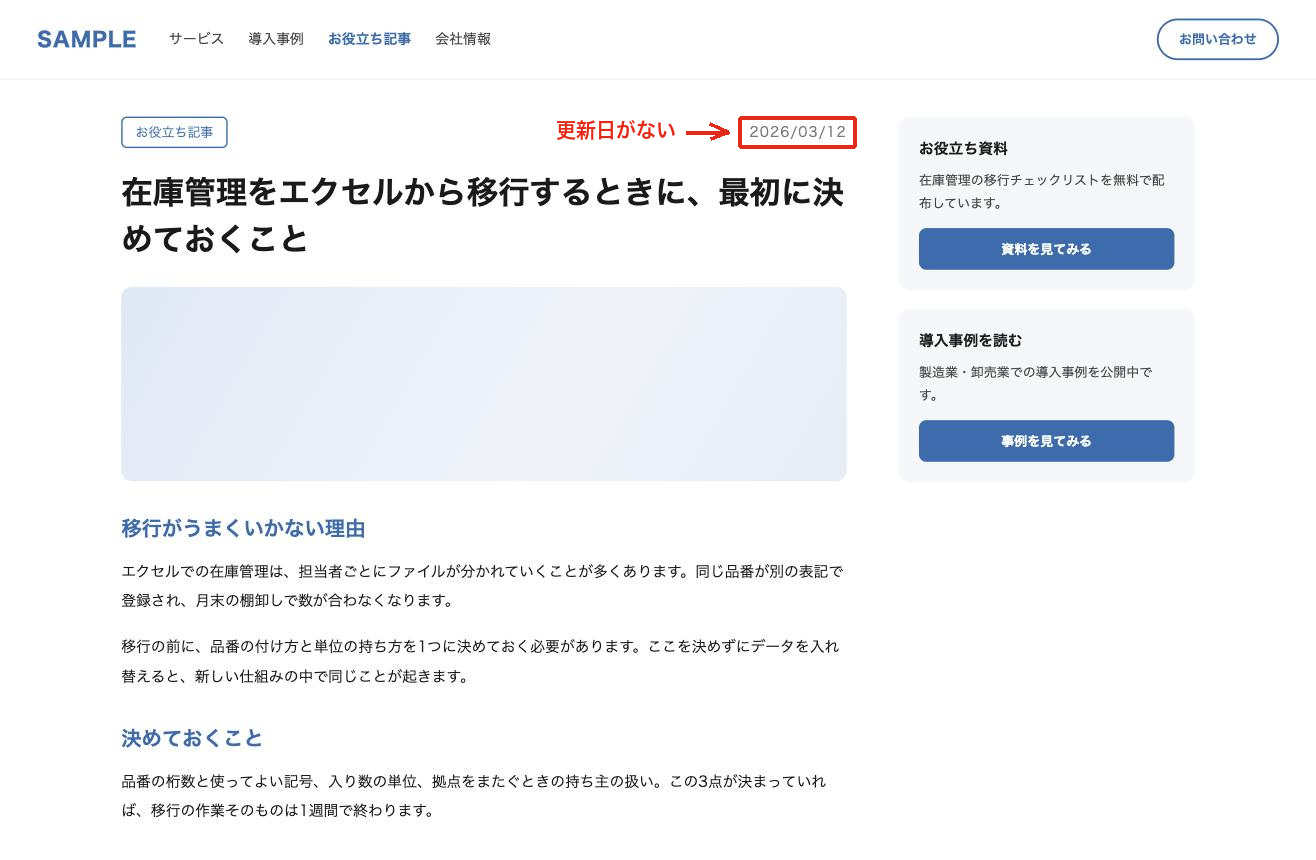
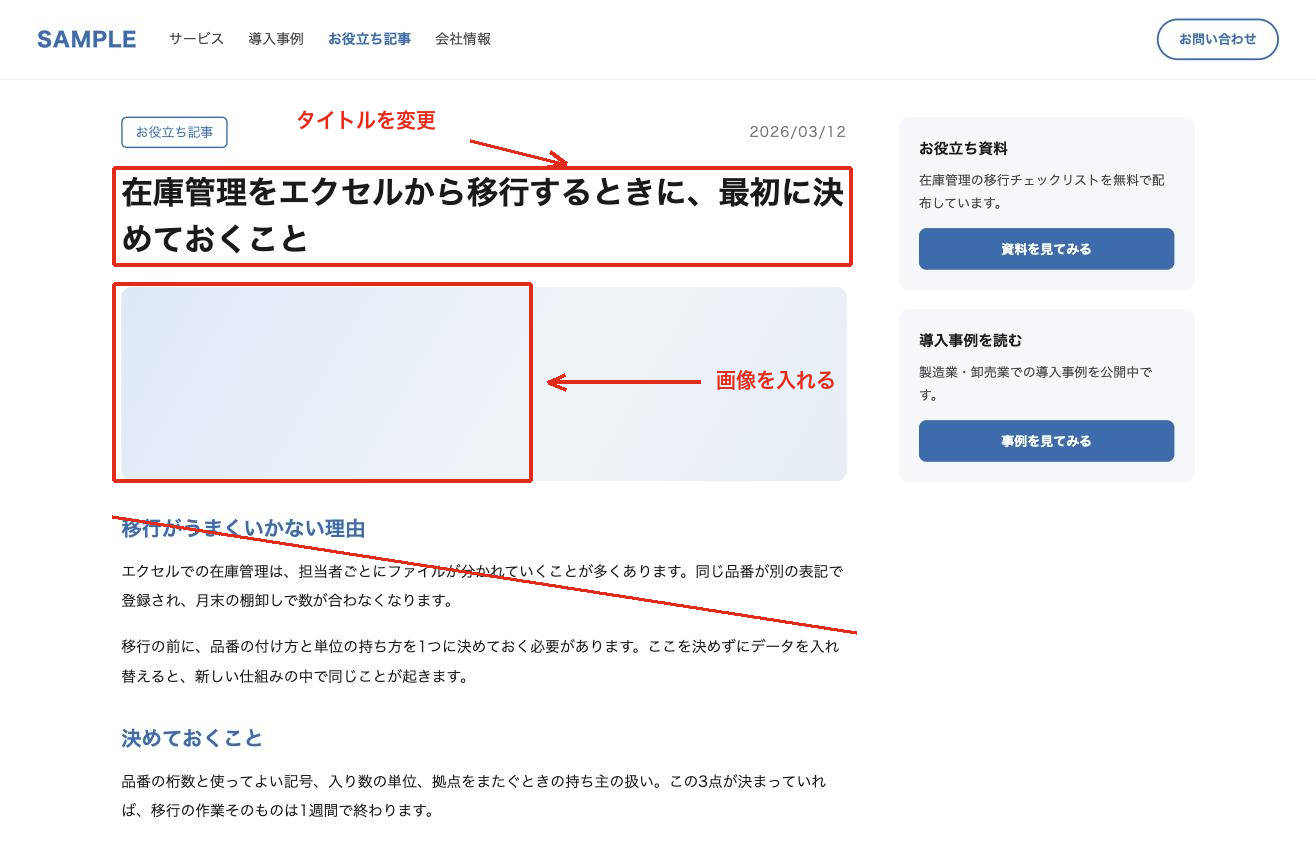
feat: 斜線（--line）を足し、サンプルを修正指示に差し替える
デモが「更新日がない」の1点指摘で、用途が狭く見えていた。
タイトルを変更・画像を入れる・この節は消す、の修正指示に作り直した。
どの職種でも同じ使い方をするので、こちらのほうが伝わる。

- --line を追加。斜めに引いて「ここは消す」を示す
- 枠と注釈の数の規律を、指摘（1つずつ）と修正指示（箇所のぶんだけ）で分けた

Claude-Session: https://claude.ai/code/session_01Vod2pPKpdAzKAsiTRD2Zp4

diff --git a/scripts/annotate-shot.py b/scripts/annotate-shot.py
@@ -18,10 +18,11 @@
 
   --box   x,y,w,h        枠
   --arrow x1,y1,x2,y2    矢印（x1,y1 から x2,y2 へ）
+  --line  x1,y1,x2,y2    線。斜めに引いて「ここは消す」を示すときに使う
   --label x,y,text       注釈の文字（x,y は左上）。text の中の \\n で改行
   --color red|green      これ以降の色。既定は red
 
---box / --arrow / --label / --color は何度でも書ける。書いた順に描かれる。
+--box / --arrow / --line / --label / --color は何度でも書ける。書いた順に描かれる。
 
 必要なもの
   python3 と Pillow（pip install pillow）
@@ -96,7 +97,7 @@ def main():
     ap.add_argument("--scale", type=float, default=1.0, help="線の太さと文字の倍率")
     ap.add_argument("--font", help="フォントファイルのパス")
     ap.set_defaults(ops=None)
-    for opt in ("--box", "--arrow", "--label", "--color"):
+    for opt in ("--box", "--arrow", "--line", "--label", "--color"):
         ap.add_argument(opt, action=Collect, dest="_ignored", metavar="…")
     ns = ap.parse_args()
     ops = ns.ops or []
@@ -141,6 +142,9 @@ def main():
             x, y, w, h = to_x(x), to_y(y), to_x(w), to_y(h)
             dr.rounded_rectangle([x, y, x + w, y + h], radius=round(6 * unit),
                                  outline=color, width=width)
+        elif kind == "line":
+            x1, y1, x2, y2 = nums(value, 4, "line")
+            dr.line([to_x(x1), to_y(y1), to_x(x2), to_y(y2)], fill=color, width=width)
         elif kind == "arrow":
             x1, y1, x2, y2 = nums(value, 4, "arrow")
             x1, y1, x2, y2 = to_x(x1), to_y(y1), to_x(x2), to_y(y2)

diff --git a/README.md b/README.md
@@ -1,6 +1,7 @@
 # shot-annotate
 
 スクリーンショットに赤枠・矢印・注釈を重ねる Claude Code / Claude Agent 用のスキル。
+修正指示にも、不具合の指摘にも使う。
 
 画像を貼っただけでは、見る人はどこを見ればいいのか分からない。
 説明を口で補うか、キャプションを読ませることになる。どちらも相手の負担が増える。
@@ -11,12 +12,14 @@
 
 ```bash
 python3 scripts/annotate-shot.py \
-  --in  examples/before.png \
-  --out examples/after.png \
-  --px \
-  --box   738,116,118,32 \
-  --arrow 686,132,728,132 \
-  --label 556,120,"更新日がない"
+  --in  before.png --out after.png --px \
+  --box   112,166,740,100 \
+  --arrow 470,140,566,164 \
+  --label 296,110,"タイトルを変更" \
+  --box   112,282,420,200 \
+  --arrow 700,382,548,382 \
+  --label 716,370,"画像を入れる" \
+  --line  112,516,856,632
 ```
 
 ## 入れる
@@ -44,13 +47,14 @@ pip install pillow
 | --- | --- |
 | `--box x,y,w,h` | 枠 |
 | `--arrow x1,y1,x2,y2` | 矢印（x1,y1 から x2,y2 へ） |
+| `--line x1,y1,x2,y2` | 線。斜めに引いて「ここは消す」を示す |
 | `--label x,y,text` | 注釈の文字。`\n` で改行 |
 | `--color red\|green\|blue` | これ以降の色。既定は red |
 | `--px` | 座標を実寸ピクセルで読む（既定は画像に対する %） |
 | `--scale` | 線の太さと文字の倍率 |
 | `--font` | フォントファイルのパス |
 
-`--box` `--arrow` `--label` `--color` は何度でも書ける。書いた順に描かれる。
+`--box` `--arrow` `--line` `--label` `--color` は何度でも書ける。書いた順に描かれる。
 
 線の太さと文字の大きさは画像の幅から決まる（幅2880pxで線8px・文字44px）。
 画像の大きさが違っても見た目が揃うので、案件をまたいでも同じ絵になる。
@@ -60,7 +64,7 @@ pip install pillow
 このリポジトリの本体は [SKILL.md](SKILL.md) にある書き方の規律のほうで、
 スクリプトはそれを実行するための道具。
 
-- 1枚に枠は2つまで、注釈は1つまで。3つ以上は目が散る
+- 指摘なら枠1つ・注釈1つ。修正指示なら直す箇所のぶんだけ
 - 注釈は画像の中で完結させる。キャプションや本文と同じ文を書かない
 - 「無い」ものを示すときは、有るべき場所を枠で囲って「◯◯がない」と書く
 - 評価語（ひどい・危険・致命的）を書かない。事実だけを書く
